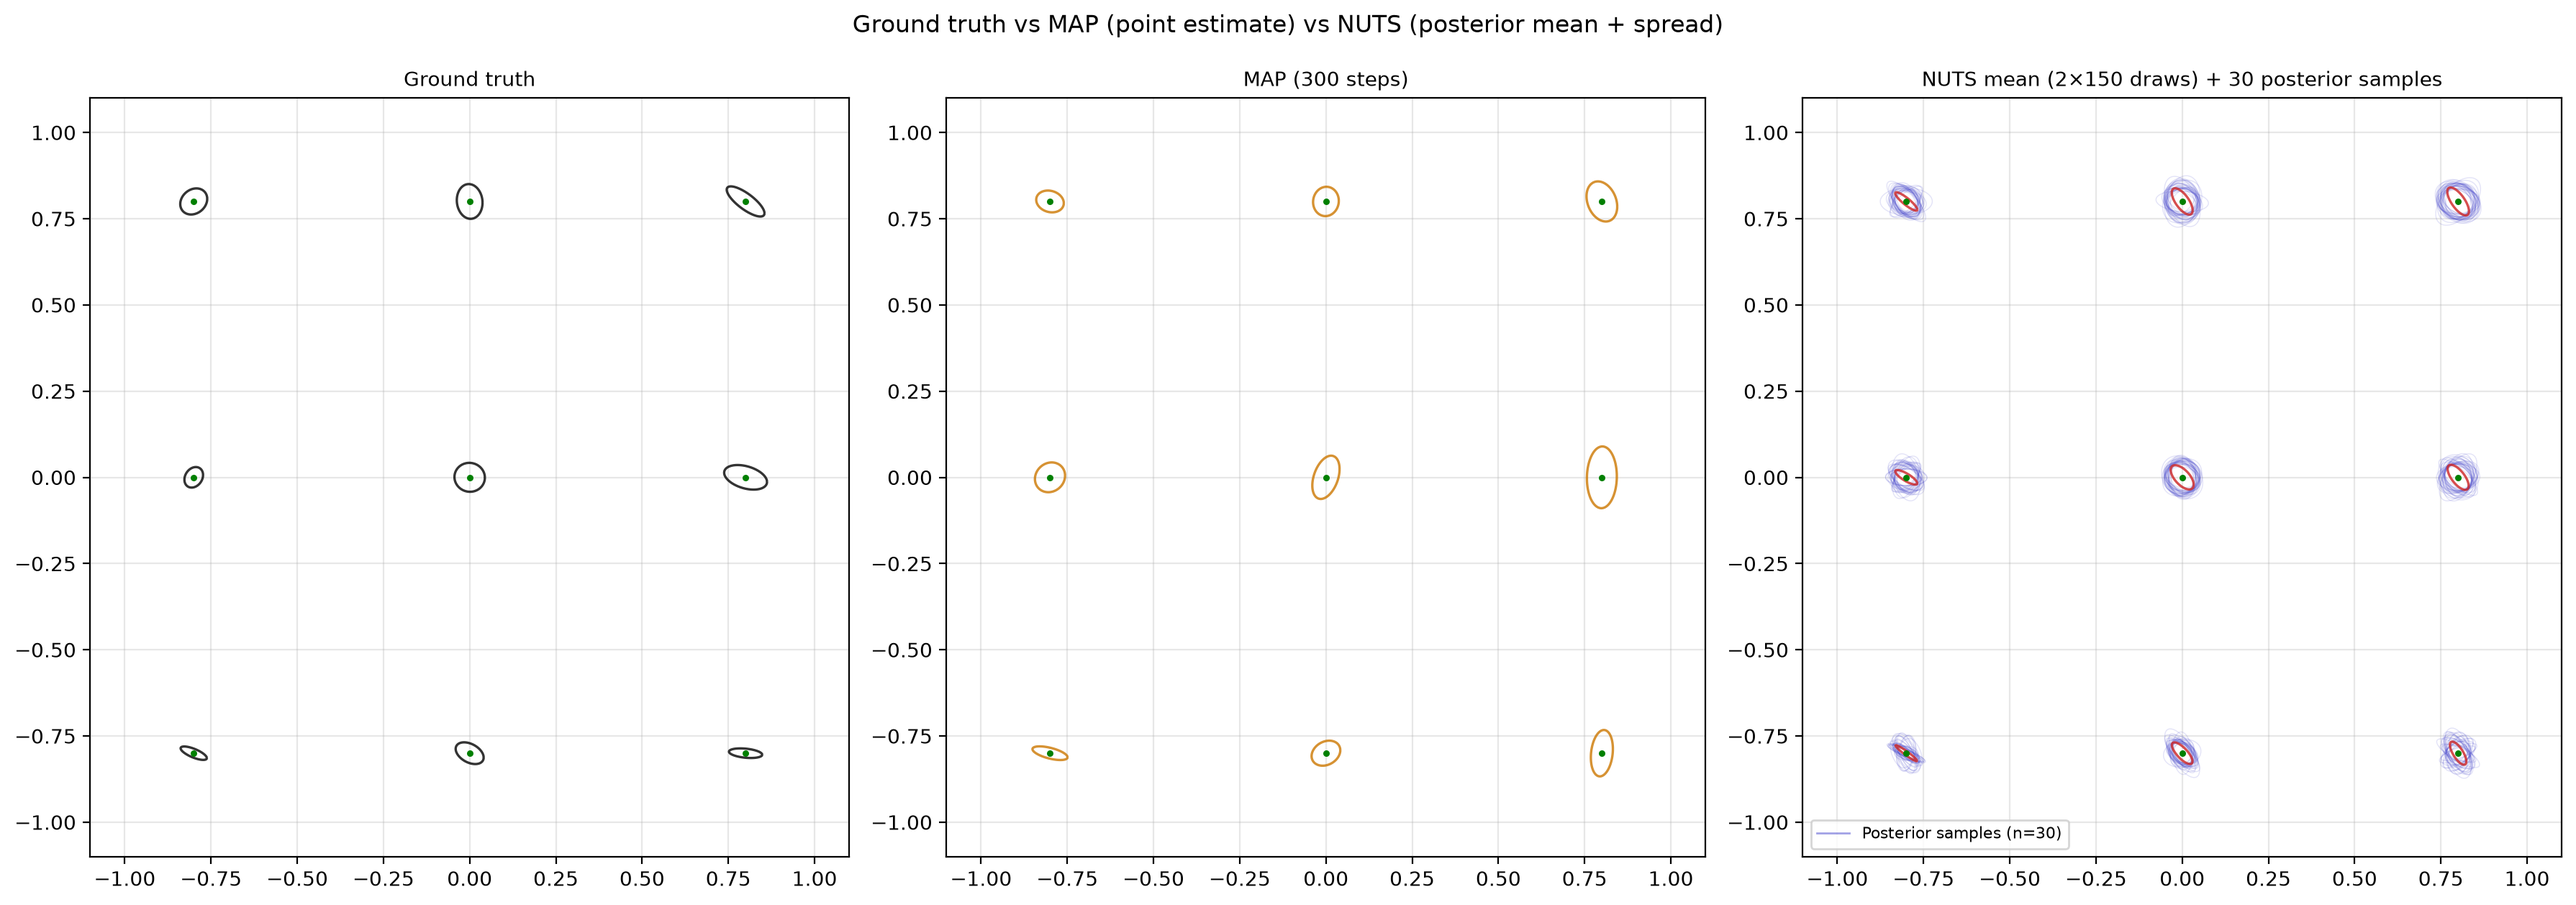
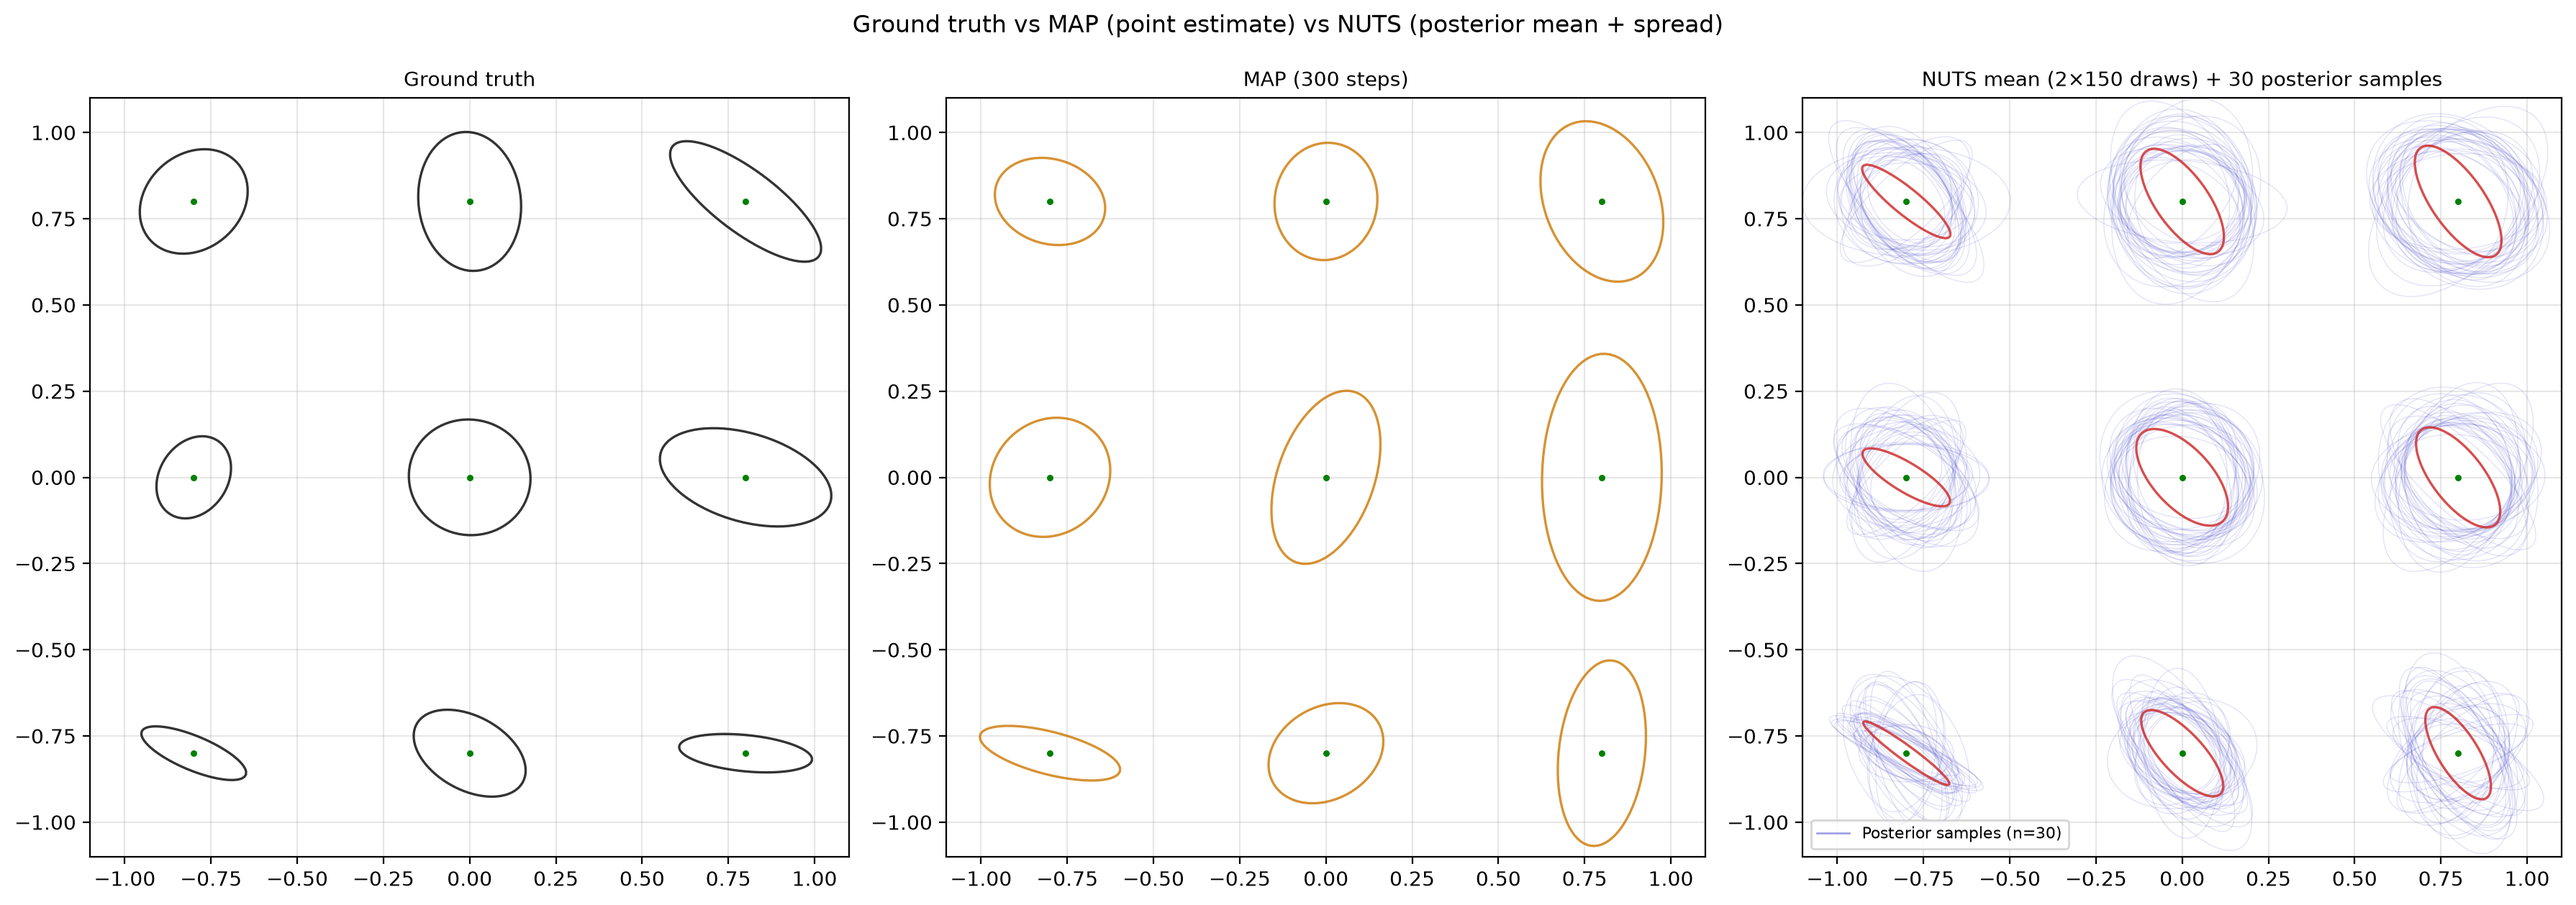
updated figures

diff --git a/docs/examples/wppm/nuts_inference_example.py b/docs/examples/wppm/nuts_inference_example.py
@@ -392,14 +392,14 @@ try:
     # Trace plot. ArviZ draws one panel per *scalar* element of W, and W here has
     # 3*3*2*3 = 54 of them -- past rcParams["plot.max_subplots"] (40), and
     # illegible even if that limit is raised. So plot one readable slice: the
-    # 3x3 basis coefficients at the first stimulus and embedding dimension.
+    # 3x3 basis coefficients at the first Model and embedding dimension.
     #
     # NOTE (arviz >= 1.0): plot_trace returns an arviz_plots PlotCollection, not
     # an array of matplotlib axes, so it is saved with pc.savefig(). The 0.x
     # kwargs `compact=` and `figsize=` no longer exist and raise if passed.
     # How to read the resulting figure:
     #   * W has shape (3, 3, 2, 3) = (deg_x, deg_y, U_row, U_col). The first two
-    #     axes index the Chebyshev basis -- degree along stimulus dimension 1 and
+    #     axes index the Chebyshev basis -- degree along Model dimension 1 and
     #     along dimension 2 -- and the last two index the entry of U(x), where
     #     Sigma = U U^T + diag_term * I.
     #   * coords={"W_dim_2": 0, "W_dim_3": 0} fixes U[0, 0] and leaves the 3x3
@@ -451,7 +451,7 @@ print("[6/7] Plotting posterior predictive covariance field...")
 
 _THETAS = jnp.linspace(0, 2 * jnp.pi, 80)
 _UNIT_CIRCLE = jnp.vstack([jnp.cos(_THETAS), jnp.sin(_THETAS)])
-ELLIPSE_SCALE = 0.3
+ELLIPSE_SCALE = 1.2 # 
 
 
 def _ellipse_segments(centers, covs, *, scale, jitter=0.0):
@@ -677,8 +677,8 @@ ax.legend(loc="upper left", fontsize=9)
 ax.set_aspect("equal")
 ax.set_xlim(-1.1, 1.1)
 ax.set_ylim(-1.1, 1.1)
-ax.set_xlabel("Stimulus dimension 1")
-ax.set_ylabel("Stimulus dimension 2")
+ax.set_xlabel("Model dimension 1")
+ax.set_ylabel("Model dimension 2")
 ax.set_title(
     f"Truth vs MAP vs posterior  ({MODE}: mc={MC_SAMPLES}, "
     f"{NUM_CHAINS}×{NUM_SAMPLES} draws, ellipses ×{ELLIPSE_SCALE})"
